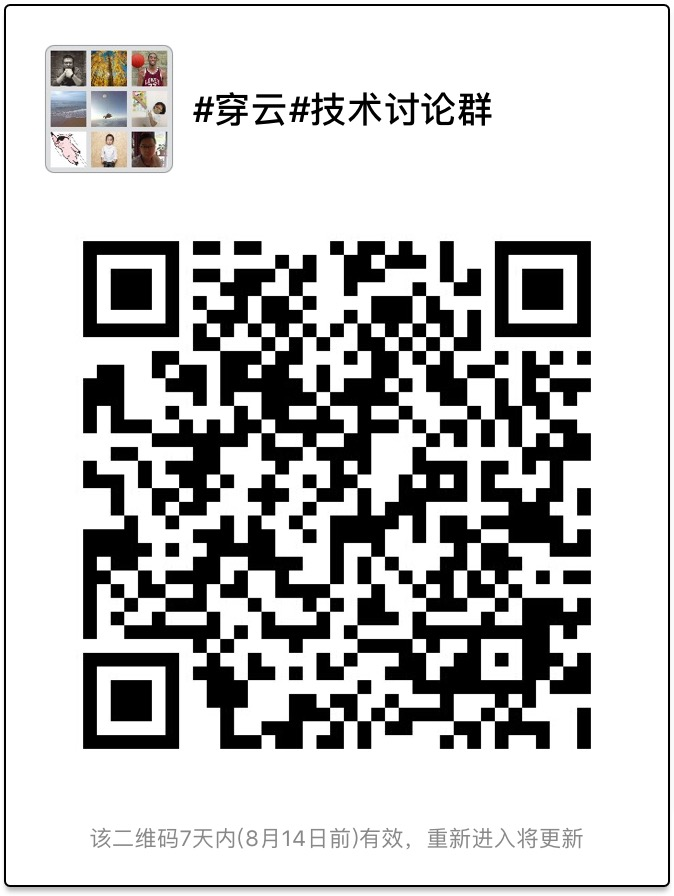
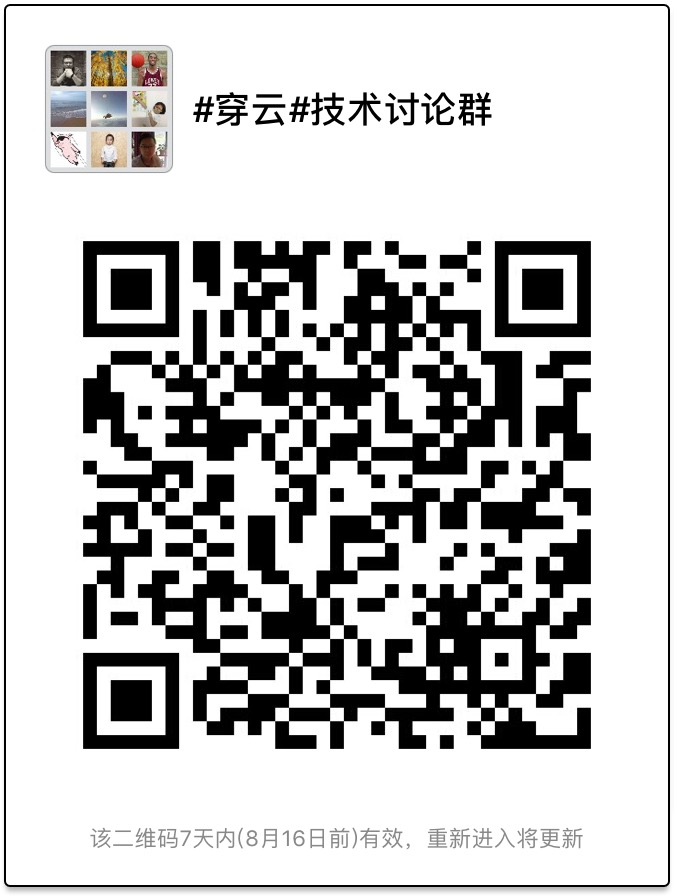
修改qrcode

diff --git a/index.html b/index.html
@@ -38,7 +38,7 @@
         <div class="content">
             <div class="title">欢迎加入#穿云#技术讨论群</div>
             <img src="./resources/images/baymax-qrcode.jpg" />
-            <div class="title">如遇二维码过期，请联系万信licunchang</div>
+            <div class="title">如遇二维码过期或群满，请联系微信号 phobosq</div>
         </div>
     </div>
 </body>
